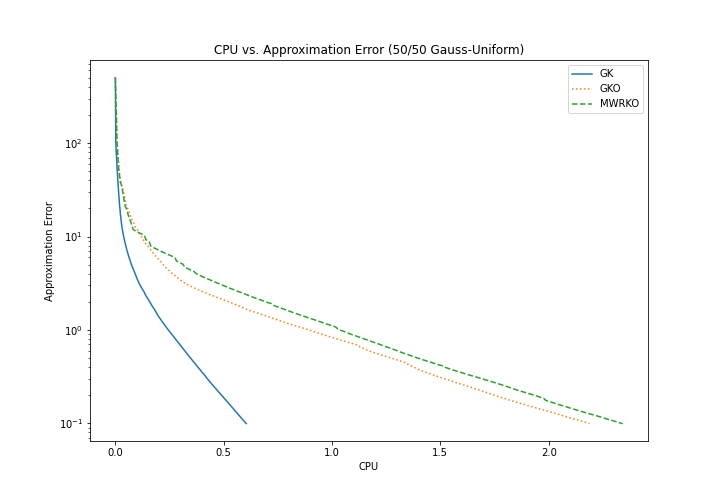
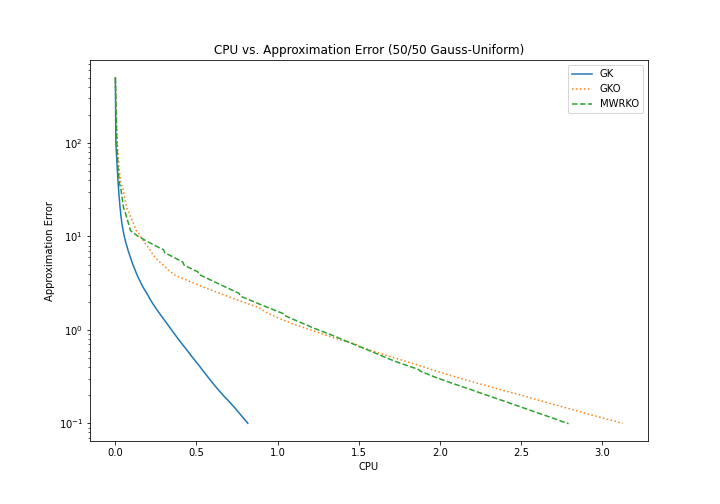
fixed functions

diff --git a/scripts/functions/mwrko.py b/scripts/functions/mwrko.py
@@ -33,14 +33,10 @@ def mwrko(A, x, y, TOL):
     row_lst.append(i_k1)
     t_lst.append(t[i_k1])
     # Oblique projection with the new selected row
-    ai = A[ik,:] # a_k-1
-    ai_k = A[i_k1,:] # a_k
-    D_ik = ai@ai_k
-    r = y[i_k1] - ai_k@x_old
-    w = ai_k - ((D_ik / np.linalg.norm(ai)**2) * ai)
-    h_ik = np.linalg.norm(w)**2
-    alpha = r / h_ik
-    xk = x_old + alpha*w
+    r = A[i_k1,:]@x_old - y[i_k1]
+    w = A[i_k1,:] - ((inner_p[ik, i_k1] / np.linalg.norm( A[ik,:])**2) * A[ik,:])
+    t = r / np.linalg.norm(w)**2
+    xk = x_old - t*w
     x_old = xk
     x_lst.append(x_old)
     ar = (np.linalg.norm(x_old-x))**2

diff --git a/scripts/functions/gko.py b/scripts/functions/gko.py
@@ -39,14 +39,10 @@ def gko(A, x, y, TOL):
       i_k1 += 1
     row_lst.append(i_k1)
     # Do oblique projection with the i
-    ai = A[ik,:] # a_k-1
-    ai_k = A[i_k1,:] # a_k
-    D_ik = ai@ai_k
-    r = y[i_k1] - ai_k@x_old
-    w = ai_k - ((D_ik / np.linalg.norm(ai)**2) * ai)
-    h_ik = np.linalg.norm(w)**2
-    alpha = r / h_ik
-    xk = x_old + alpha*w
+    r = A[i_k1,:]@x_old - y[i_k1]
+    w = A[i_k1,:] - ((inner_p[ik, i_k1] / np.linalg.norm( A[ik,:])**2) * A[ik,:])
+    t = r / np.linalg.norm(w)**2
+    xk = x_old - t*w
     x_old = xk
     x_lst.append(x_old)
     ar = (np.linalg.norm(x_old-x))**2
